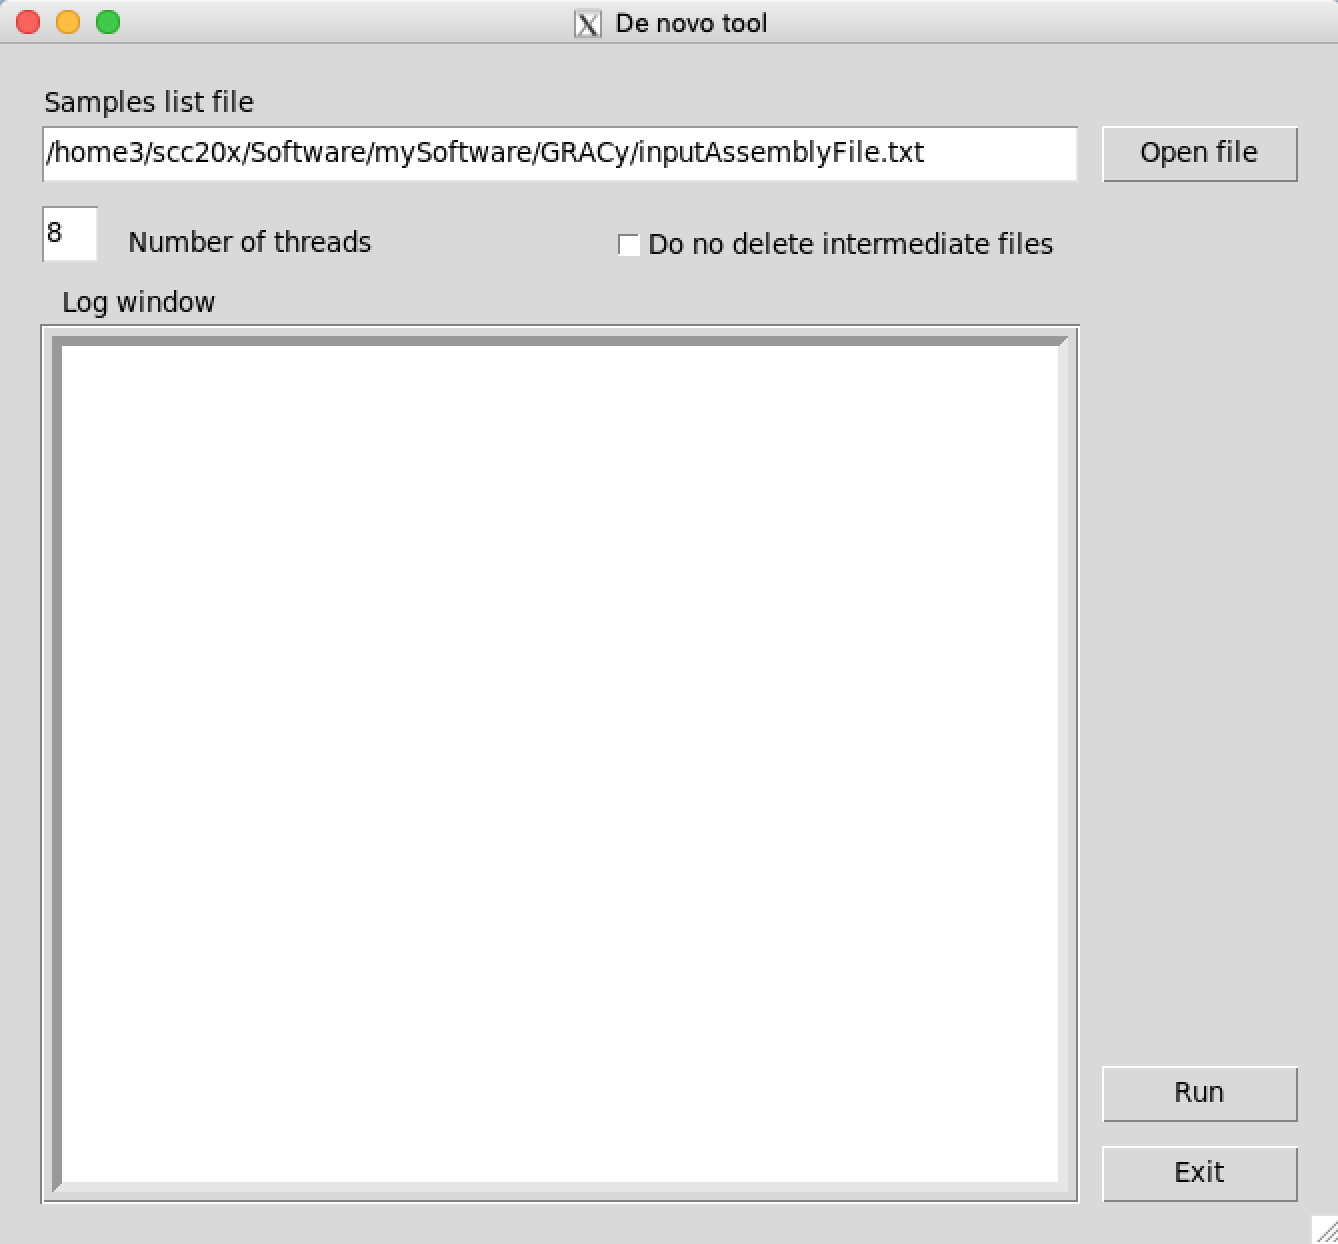
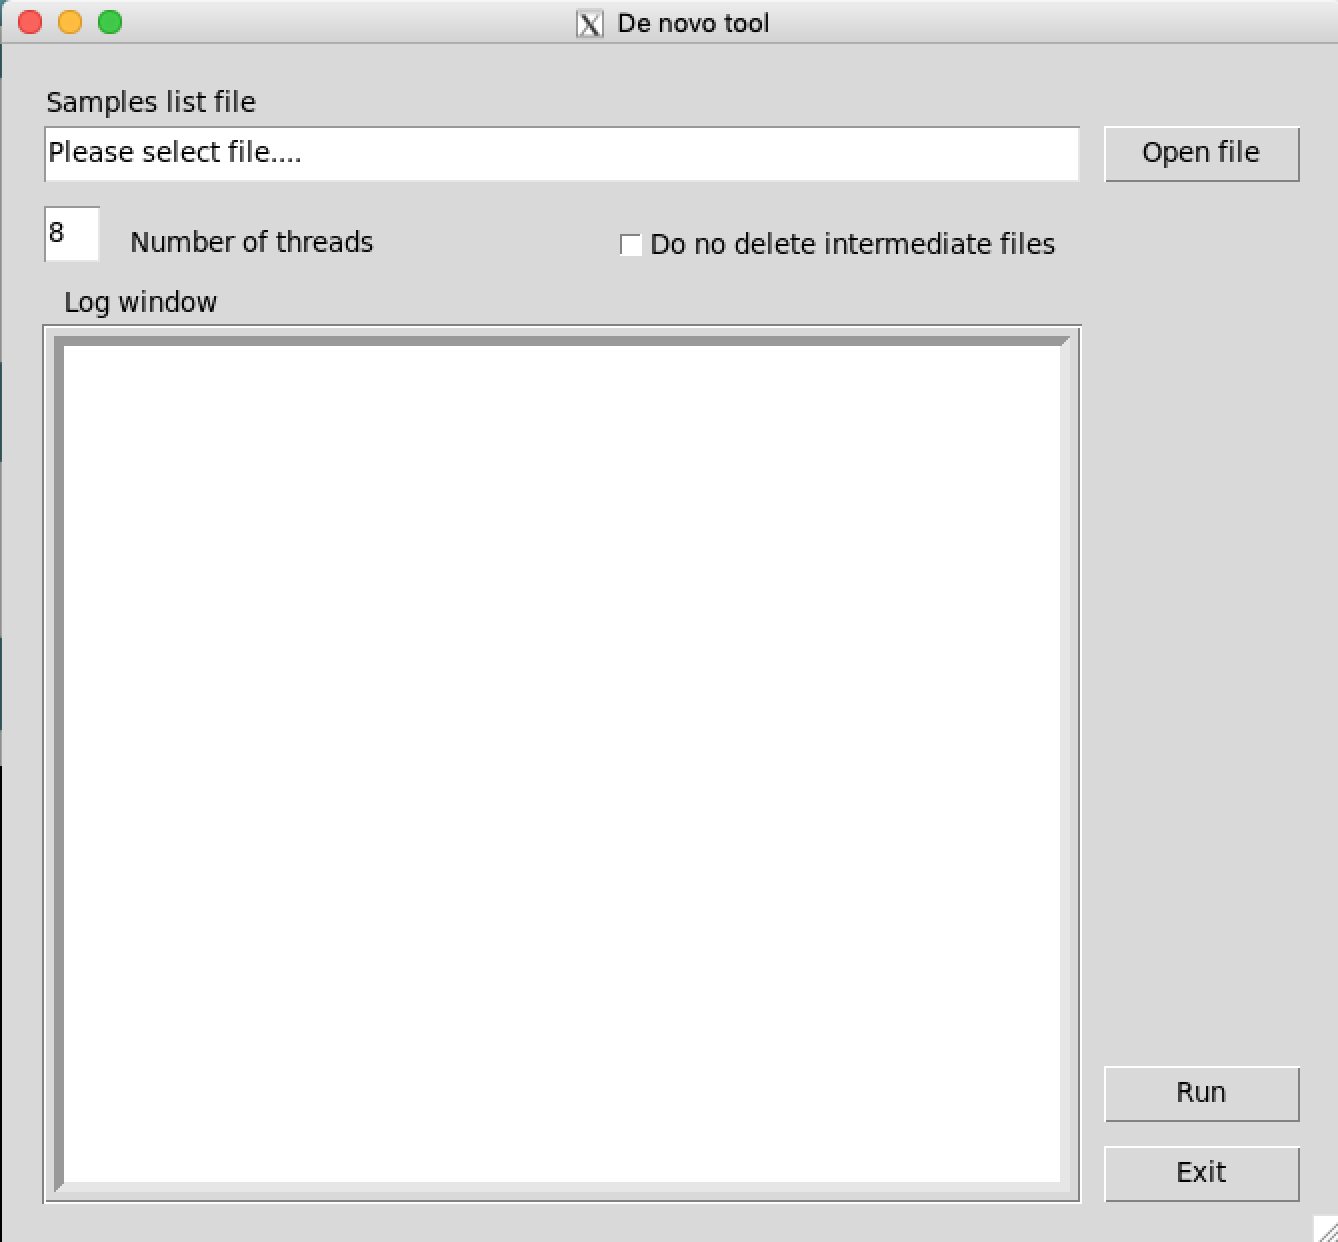
Bug fixes in assembly GUI

diff --git a/assembly/hcmvAssembly.py b/assembly/hcmvAssembly.py
@@ -16,6 +16,7 @@ import datetime
 from Bio import SeqIO
 
 import biomodule
+import Tkinter, Tkconstants, tkFileDialog
 
 
 installationDirectory = sys.argv[1]
@@ -74,6 +75,11 @@ class Toplevel1:
 
         def exitProgram():
             exit()
+
+        def openInputFile():
+            inputFile = tkFileDialog.askopenfilename(initialdir = "~",title = "Select file")
+            self.inputFileEntry.delete(0,tk.END)
+            self.inputFileEntry.insert(0,inputFile)
 
         #***************************************************
         #*************** Start main algorithm **************
@@ -990,9 +996,9 @@ class Toplevel1:
 
         self.inputFileEntry = tk.Entry(top)
         self.inputFileEntry.place(x=20,y=40,width=520,height=30)
-        self.inputFileEntry.insert(0,"/home3/scc20x/Software/mySoftware/GRACy/inputAssemblyFile.txt")
+        self.inputFileEntry.insert(0,"Please select file....")
 
-        self.inputFileButton = tk.Button(top)
+        self.inputFileButton = tk.Button(top,command=openInputFile)
         self.inputFileButton.place(x=550,y=40,width=100,height=30)
         self.inputFileButton.configure(text="Open file")
 
